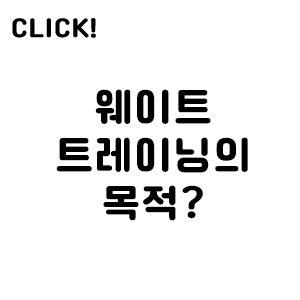
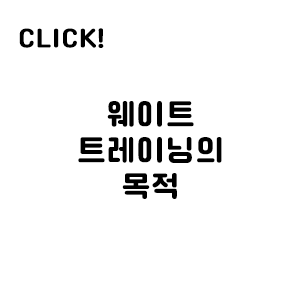
1

Changed region(s): [[0.18, 0.3, 0.84, 0.75], [0.03, 0.06, 0.36, 0.18]]

diff --git a/styles/globals.css b/styles/globals.css
@@ -15,6 +15,7 @@
 }
 body{
   margin: 0 auto;
+  font-size: 0.75rem;
   font-family: R_maple;
 }
 
@@ -95,8 +96,8 @@ li{
 
 .Title_Wrap{
   text-align: center;
-  line-height: 35px;
-  font-size: 20px;
+  line-height: 30px;
+  font-size: 15px;
 }
 
 
@@ -108,18 +109,7 @@ li{
   margin: 5px auto;
 }
 
-.text{
-  width: 600px;
-  height: 100%;
-  margin-top: 20px;
-  margin-left: 20px;
-  line-height: 25px;
-}
 
-.text > p:nth-child(1){
-  font-size: 30px;
-  margin-bottom:15px ;
-}
 
 .unit{
   padding: 50px 100px;
@@ -133,7 +123,7 @@ li{
 
 .History_box01>p{
   width:980px;
-  font-size: 20px;
+  font-size: 15px;
   padding-top: 30px;
 }
 
@@ -151,7 +141,6 @@ li{
 
 .history_box03{
   line-height: 30px;
-  font-size: 20px;
 }
 
 .history_box03 h2{
@@ -161,7 +150,7 @@ li{
 .history_box02>p{
   margin-top: 5px;
   line-height:25px;
-  font-size: 20px;
+  font-size: 15px;
 }
 
 .H_span{

diff --git a/src/unit/Health_section.js b/src/unit/Health_section.js
@@ -35,7 +35,7 @@ export default function Health_unit(props) {
     "left":"50%",
     "transform":"translate(-50%)",
     "top":"400px",
-    "font-size":"20px",
+    "font-size":"15px",
     "line-height":"30px"
  };
 
@@ -46,7 +46,7 @@ export default function Health_unit(props) {
     "left":"50%",
     "transform":"translate(-50%)",
     "top":"400px",
-    "font-size":"20px",
+    "font-size":"15px",
     "line-height":"30px"
   };
 const img_click = (section) => {

diff --git a/src/unit/Footer.js b/src/unit/Footer.js
@@ -14,7 +14,7 @@ export default function Footer(props){
     'height':'100px',
     'background-color':"#eee",
     "justify-content":"space-around",
-    "font-size":"18px",
+    "font-size":"15px",
     "line-height":"100px",
     "border-top":"1px solid #ddd"
   }

diff --git a/styles/health.js b/styles/health.js
@@ -37,7 +37,7 @@ height:auto;
 background-color:#faf5f1;
 border-radius:20px;
 padding:60px;
-font-size:18px;
+font-size:15px;
 margin:50px auto;
 `
 
